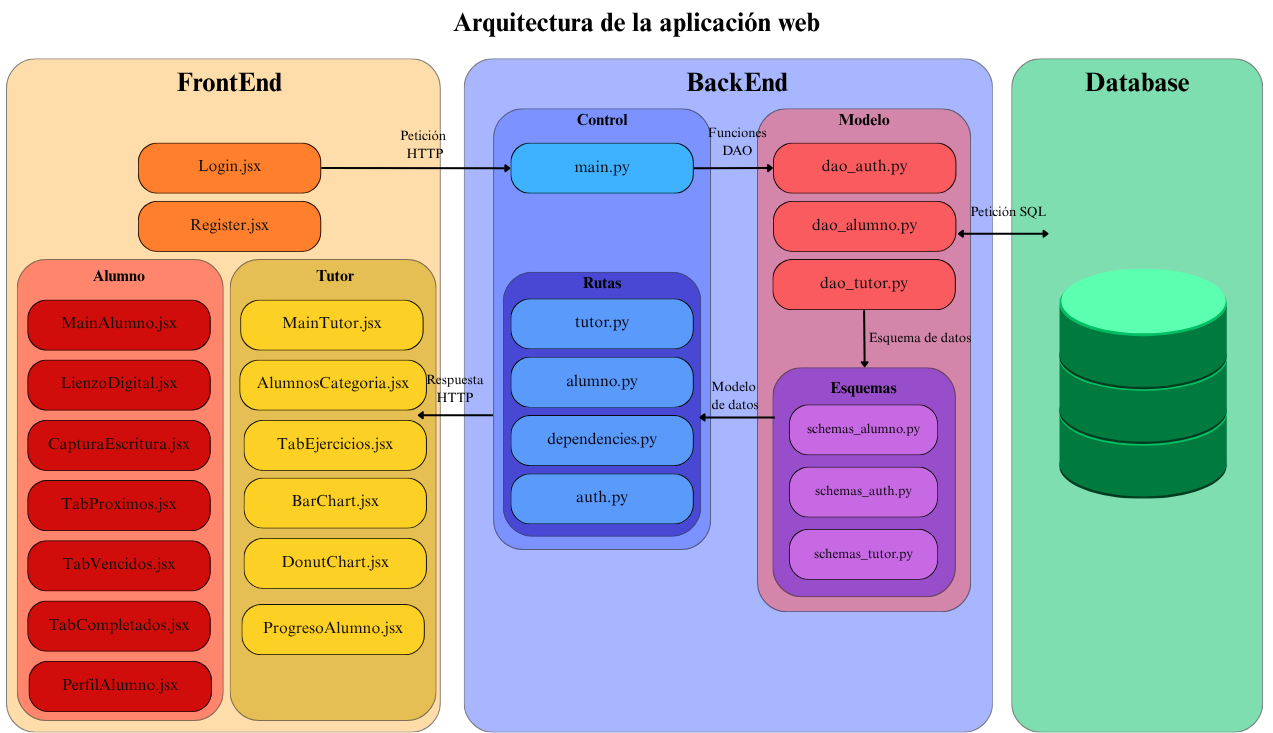
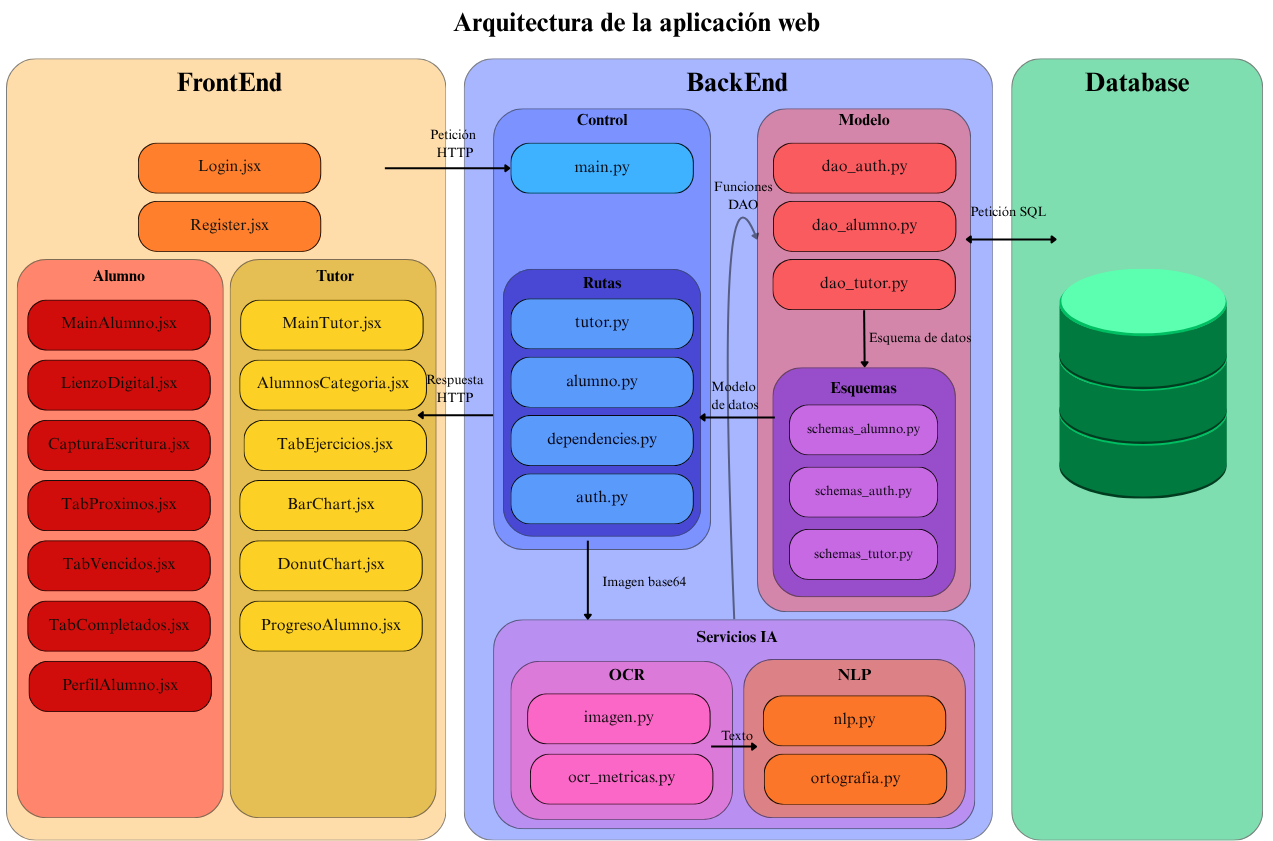
Cambio imagen arquitectura

diff --git a/Capitulo4/Arquitectura.tex b/Capitulo4/Arquitectura.tex
@@ -616,13 +616,13 @@ Los campos \texttt{promedio\_ortografia} y \texttt{promedio\_legibilidad} en la 
 
 \subsection{Diagrama de arquitectura del sistema}
 
-La Figura \ref{fig:arquitectura_completa} muestra el diagrama de arquitectura del sistema sin los modulos pendientes de integración.
+La Figura \ref{fig:arquitectura_completa} muestra el diagrama de arquitectura del sistema, tomando en cuenta que los módulos OCR y NLP están pendientes de integración.
 
 \begin{landscape}
     \begin{figure}[H]
         \centering
         \includegraphics[width=0.95\linewidth]{Imagenes/Arquitectura.png}
-        \caption{Diagrama de arquitectura del sistema sin integración de módulos OCR y NLP}
+        \caption{Diagrama de arquitectura del sistema}
         \label{fig:arquitectura_completa}
     \end{figure}
 \end{landscape}

diff --git a/Capitulo4.tex b/Capitulo4.tex
@@ -240,7 +240,7 @@ Este enfoque se justifica por las siguientes razones:
 La vista \textit{vw\_historial\_alumno} permite mantener un registro cronológico de los resultados obtenidos por el alumno en cada intento, sin comprometer la normalización del modelo de datos. A diferencia de una tabla adicional, la vista consolida la información existente en las entidades Intento, Analisis\_ortografico y Analisis\_caligrafico mediante una consulta predefinida, evitando la redundancia de datos. 
 
 \input{Capitulo4/diagramas.tex}
-\input{Capitulo4/ejercicios}
+%\input{Capitulo4/ejercicios}
 \input{Capitulo4/progreso.tex}
 \input{Capitulo4/dataset.tex}
 \input{Capitulo4/Vistas.tex}

diff --git a/Capitulo4/progreso.tex b/Capitulo4/progreso.tex
@@ -90,7 +90,7 @@ Excelencia  & $> 8.0$         & El alumno muestra un desempeño consistentemente
 \hline
 \end{tabular}
 \end{table}
-
+\newpage
 \noindent\textbf{Nota de diseño:} los umbrales de clasificación (6.0 y
 8.0) están alineados con la escala de evaluación del sistema educativo
 mexicano de educación primaria \cite{sep2011guia}, donde 6.0 representa